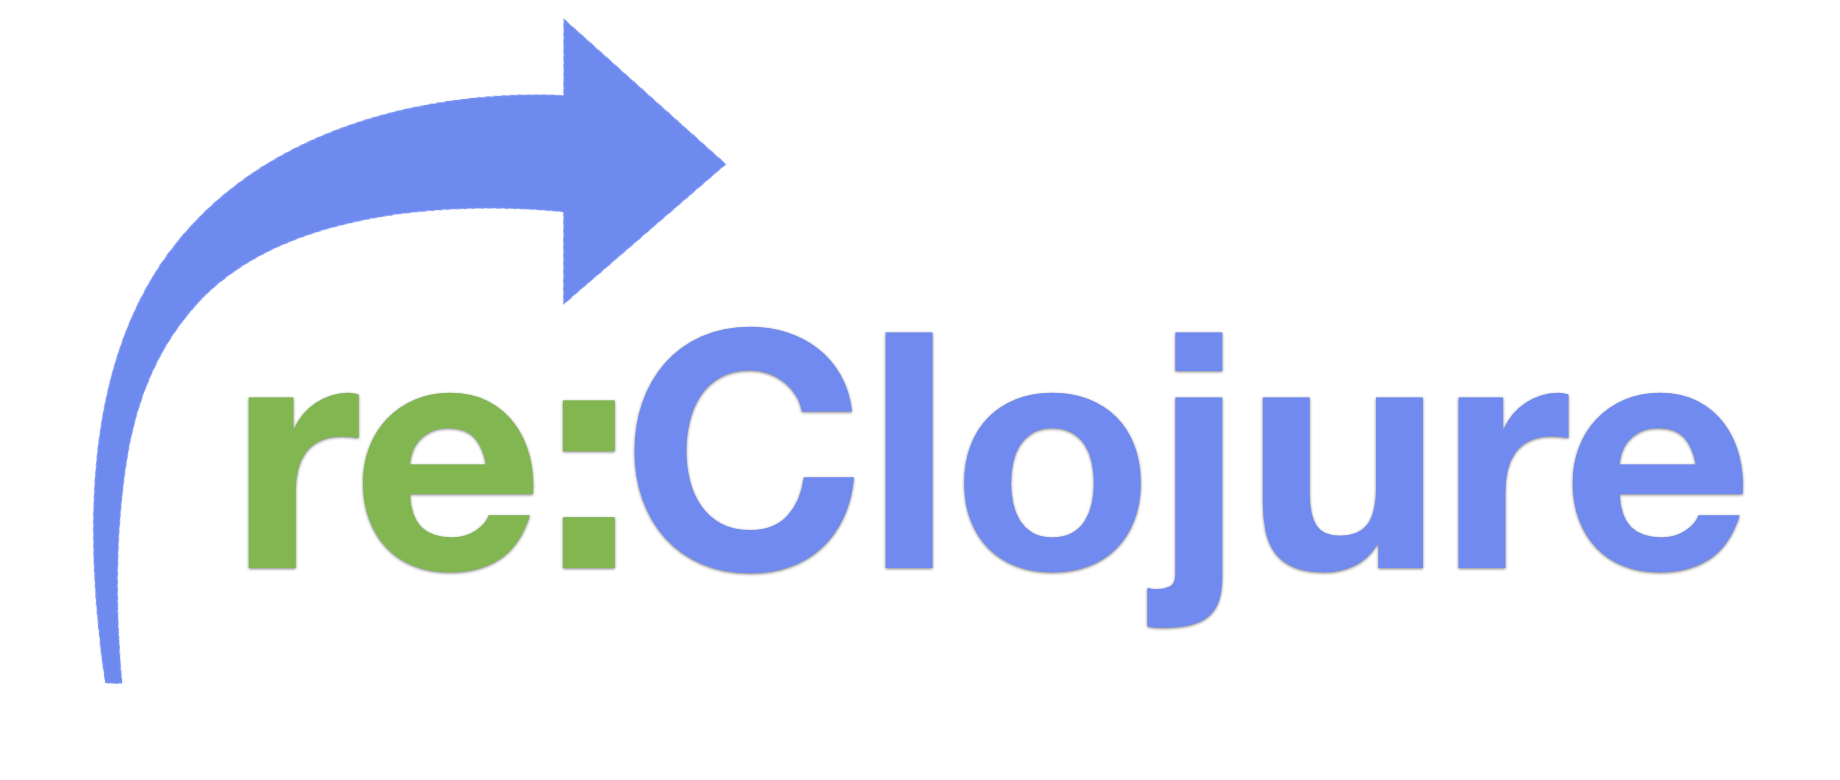
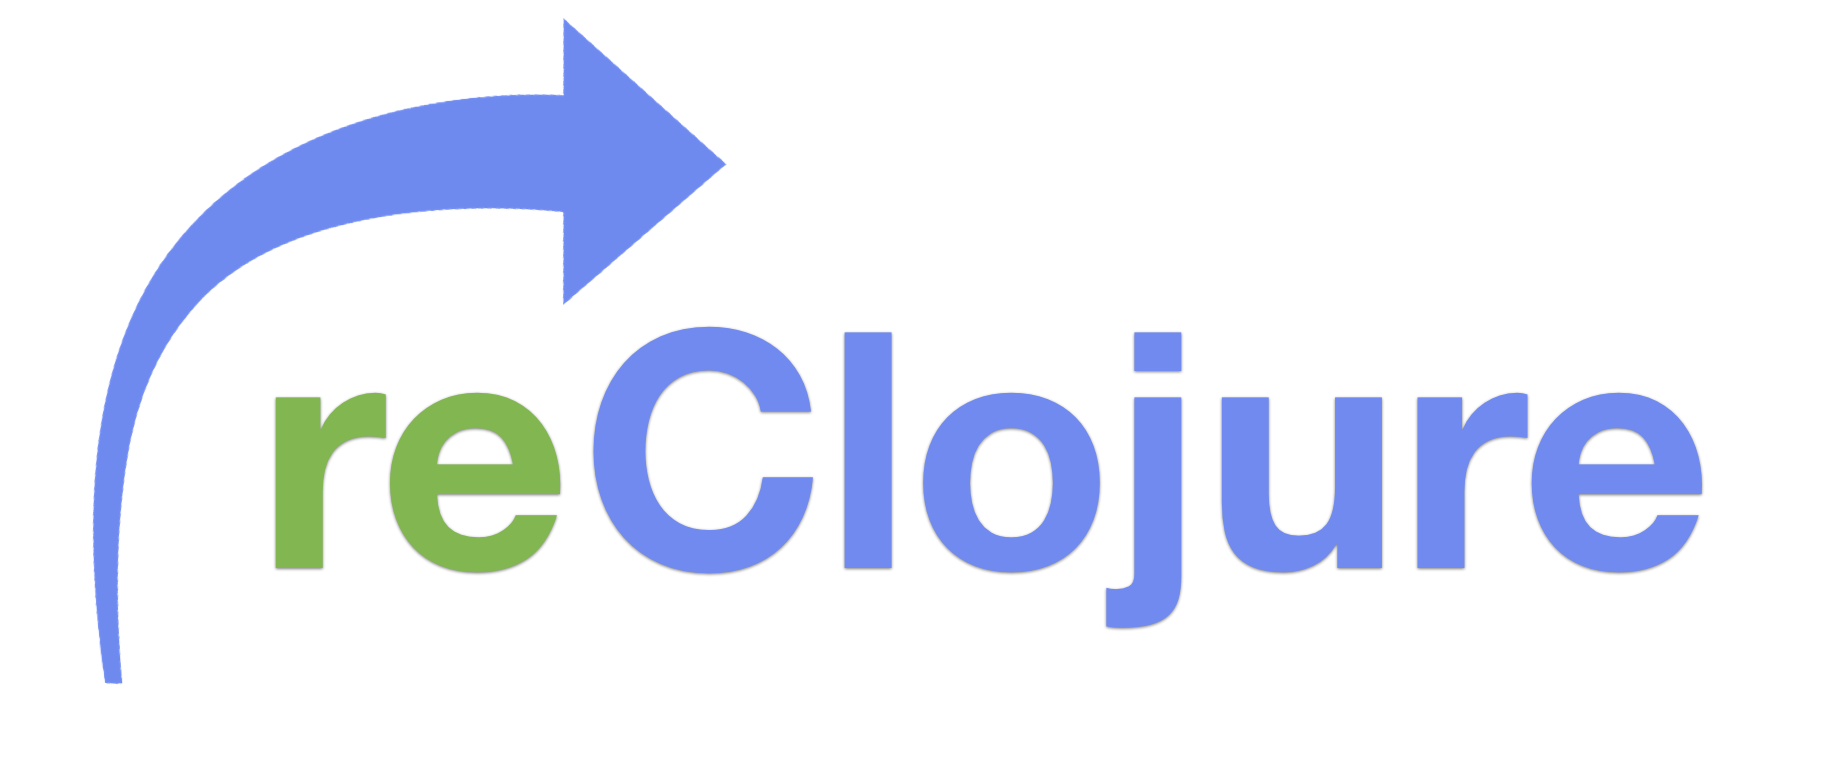
Remove re:Clojure, replace with reClojure

Changed region(s): [[0.1239, 0.4, 0.9603, 0.8308]]

diff --git a/old_site/index.html b/old_site/index.html
@@ -3,7 +3,7 @@
 
 <head>
   <meta charset="utf-8">
-  <title>re:Clojure 2020</title>
+  <title>reClojure 2020</title>
   <meta content="width=device-width, initial-scale=1.0" name="viewport">
   <meta content="" name="keywords">
   <meta content="" name="description">
@@ -38,7 +38,7 @@
 
       <div id="logo" class="pull-left">
         <a href="#intro" class="scrollto">
-          <img src="img/re-logo-black-trans.png" alt="re:Clojure Logo" title="">
+          <img src="img/re-logo-black-trans.png" alt="reClojure Logo" title="">
         </a>
       </div>
 
@@ -63,7 +63,7 @@
   <section id="intro">
     <div class="intro-container wow fadeIn">
       <h1 class="mb-4 pb-0">
-        <img src="img/reclojure-banner-black-trans.png" alt="re:Clojure Logo" title="">
+        <img src="img/reclojure-banner-black-trans.png" alt="reClojure Logo" title="">
         <br><span>2020</span> Conference
       </h1>
       <p class="mb-4 pb-0">4th-5th December, free, open and virtual</p>
@@ -80,8 +80,8 @@
       <div class="container">
         <div class="row">
           <div class="col-lg-6">
-            <h2>About re:Clojure</h2>
-            <p><em>re:Clojure</em> is a community-driven effort to bring together knowledgeable speakers to present new and exciting topics on all things Clojure and Clojurescript.
+            <h2>About reClojure</h2>
+            <p><em>reClojure</em> is a community-driven effort to bring together knowledgeable speakers to present new and exciting topics on all things Clojure and Clojurescript.
                 It is our intention to keep the conferences lean, inclusive and rewarding to all attendees and to promote other Clojure conferences in Europe and worldwide.
             </p>
             <p>Please review our <a href="https://en-us.confcodeofconduct.com/">code of conduct</a>, relax and enjoy the conference!
@@ -89,7 +89,7 @@
           </div>
           <div class="col-lg-3">
             <h3>Where</h3>
-            <p>Given the special pandemic circumstances, re:Clojure 2020 will be a virtual event. We invite you to grab a ticket and join us on Zoom for enhanced interactivity. The conference will be also streamed on Youtube. You can also attend our workshops ahead of the conference. Check the schedule below.</p>
+            <p>Given the special pandemic circumstances, reClojure 2020 will be a virtual event. We invite you to grab a ticket and join us on Zoom for enhanced interactivity. The conference will be also streamed on Youtube. You can also attend our workshops ahead of the conference. Check the schedule below.</p>
           </div>
           <div class="col-lg-3">
             <h3>When</h3>
@@ -108,7 +108,7 @@
 
         <div class="section-header">
           <h2>Event Schedule</h2>
-          <p>This year re:Clojure 2020 goes virtual. We prepared a brand new two days schedule with different starting times - opening up the conference across timezones for attendees around the world.</p>
+          <p>This year reClojure 2020 goes virtual. We prepared a brand new two days schedule with different starting times - opening up the conference across timezones for attendees around the world.</p>
           <p>Don't worry if you can't make a talk, you'll have the opportunity to catch up with any talks you miss after they've been uploaded.</p>
         </div>
 
@@ -308,7 +308,7 @@
                 <div class="row schedule-item">
                   <div class="col-md-3"><a href="https://time.is/1500_3_Dec_2020_in_UTC" target="_blank"><time>3:00pm - 6:00pm GMT Thursday 3rd December</time></a></div>
                   <div class="col-md-9">
-                    <h4>re:Crux workshop by JUXT</h4>
+                    <h4>reCrux workshop by JUXT</h4>
                     <a href="https://www.eventbrite.co.uk/e/crux-workshop-reclojure-tickets-129935746315" target="_blank">get your FREE tickets</a>
                     <p>(NOTE: the workshop ticket is separate from the main event ticket)</p>
                   </div>
@@ -520,7 +520,7 @@
             </br>
             </br>
           <h2>Call for Speakers</h2>
-          <p>re:Clojure is all about bringing the Clojure community together to share ideas and learn from each other. Unfortunately, we won't be able to meet physically this year, but you'll be able to give your talk from the comfort of your desk!</p>
+          <p>reClojure is all about bringing the Clojure community together to share ideas and learn from each other. Unfortunately, we won't be able to meet physically this year, but you'll be able to give your talk from the comfort of your desk!</p>
           <p>So if you have an idea, <b><a href="https://forms.gle/ZNzW4iwuWCHGZAT89">submit your talk here!</a></b></p>
             </br>
           <p><b>Key Dates</b></p>
@@ -542,7 +542,7 @@
     <!--   <div class="container"> -->
     <!--     <div class="section-header"> -->
     <!--       <h2>Sponsors</h2> -->
-    <!--       <p>Interested in sponsoring re:Clojure 2020? Please get in touch -->
+    <!--       <p>Interested in sponsoring reClojure 2020? Please get in touch -->
     <!--       <a href="mailto:info@reclojure.org">info@reclojure.org</a></p> -->
     <!--     </div> -->
     <!--   </div> -->
@@ -560,7 +560,7 @@
 
         <div class="section-header">
         <h2>Past Editions</h2>
-          <p>Check out the previous <a href="/old_site/2019">re:Clojure 2019 home page</a></p>
+          <p>Check out the previous <a href="/old_site/2019">reClojure 2019 home page</a></p>
         </div>
 
       </div>
@@ -573,7 +573,7 @@
   <footer id="footer">
     <div class="container">
       <div class="copyright">
-        &copy; Copyright <strong>re:Clojure</strong>. All Rights Reserved
+        &copy; Copyright <strong>reClojure</strong>. All Rights Reserved
       </div>
       <div class="credits">
         <!--

diff --git a/old_site/resources/public/css/compiled.css b/old_site/resources/public/css/compiled.css
@@ -222,7 +222,7 @@ img, video {
 .org_reclojure_views_home__nowrap{white-space:nowrap}
 .org_reclojure_views_home__small_caps{font-variant:all-small-caps}
 .org_reclojure_views_home__reclojure_symbol{height:6.25rem;width:6.25rem;max-width:unset;transform:rotate(-10deg);filter:drop-shadow(0 0 1px hsla(0,0%,0%,0.15))}
-.org_reclojure_views_home__reclojure_title{margin-left:-0.05em;display:grid;grid-template-areas:"text"}.org_reclojure_views_home__reclojure_title .title{grid-area:text;z-index:3}.org_reclojure_views_home__reclojure_title .title span:first-child{color:#5bdc00}.org_reclojure_views_home__reclojure_title .title span:last-child{color:#6864e6}.org_reclojure_views_home__reclojure_title::before{background:no-repeat linear-gradient(white,white) 15% 50%/45% 40%;content:"re:Clojure";color:white;filter:drop-shadow(0 0 1px hsla(0,0%,0%,0.15));grid-area:text;-webkit-text-stroke:.25em white;z-index:2}.org_reclojure_views_home__reclojure_title::after{content:"re:Clojure";grid-area:text;text-shadow:0 0 1px black,-5px 1px 9px black;z-index:1}@media(min-width:60em){.org_reclojure_views_home__reclojure_title::after{text-shadow:3px 2px 25px black,-5px 1px 25px}}
+.org_reclojure_views_home__reclojure_title{margin-left:-0.05em;display:grid;grid-template-areas:"text"}.org_reclojure_views_home__reclojure_title .title{grid-area:text;z-index:3}.org_reclojure_views_home__reclojure_title .title span:first-child{color:#5bdc00}.org_reclojure_views_home__reclojure_title .title span:last-child{color:#6864e6}.org_reclojure_views_home__reclojure_title::before{background:no-repeat linear-gradient(white,white) 15% 50%/45% 40%;content:"reClojure";color:white;filter:drop-shadow(0 0 1px hsla(0,0%,0%,0.15));grid-area:text;-webkit-text-stroke:.25em white;z-index:2}.org_reclojure_views_home__reclojure_title::after{content:"reClojure";grid-area:text;text-shadow:0 0 1px black,-5px 1px 9px black;z-index:1}@media(min-width:60em){.org_reclojure_views_home__reclojure_title::after{text-shadow:3px 2px 25px black,-5px 1px 25px}}
 .org_reclojure_views_home__wrapper h1{font-family:Inter,sans-serif;font-weight:700;font-size:15vmin}.org_reclojure_views_home__wrapper p{color:#0c2900}@media(min-width:60em){.org_reclojure_views_home__wrapper{background-image:url(/images/liquid-cheese.svg);background-size:cover;min-height:100vh}}
 .org_reclojure_views_home__navigation{width:100%;max-width:1100px;justify-content:space-between;font-family:Inter,sans-serif;margin:0 auto;align-items:center;padding:1.5rem;font-weight:700;display:flex}@media(min-width:40em){.org_reclojure_views_home__navigation{padding:2.5rem}}.org_reclojure_views_home__navigation ul{display:flex;flex-wrap:wrap;flex-direction:column;align-items:flex-end}.org_reclojure_views_home__navigation ul li{font-family:Inter,sans-serif;font-weight:700;font-size:1.3rem;margin-bottom:2rem}.org_reclojure_views_home__navigation ul li a{color:#22207b}.org_reclojure_views_home__navigation ul li:last-child{margin-bottom:0}@media(min-width:40em){.org_reclojure_views_home__navigation ul{flex-direction:row}.org_reclojure_views_home__navigation ul li{margin-right:2rem;margin-bottom:0}.org_reclojure_views_home__navigation ul li:last-child{margin-right:0}}@media(min-width:80em){.org_reclojure_views_home__navigation ul li:first-child{display:none}}
 .org_reclojure_views_home__header{margin:0 auto;padding:10vmin 2.5rem;width:100%;max-width:1100px}.org_reclojure_views_home__header .info{font-family:inter,sans-serif;font-size:1.5rem;margin-top:2rem;margin-bottom:4rem}.org_reclojure_views_home__header .info p:last-child{font-weight:700;font-size:3rem}.org_reclojure_views_home__header .description{font-family:Inter,sans-serif;font-weight:400;display:grid;grid-template-columns:1fr}.org_reclojure_views_home__header .description p{font-size:1.5rem;line-height:1.6}.org_reclojure_views_home__header .description p:first-child{margin-bottom:1rem}@media(min-width:40em){.org_reclojure_views_home__header .description{grid-template-columns:40% 1fr}.org_reclojure_views_home__header .description p{grid-column-start:2}}

diff --git a/old_site/2019/index.html b/old_site/2019/index.html
@@ -3,7 +3,7 @@
 
 <head>
   <meta charset="utf-8">
-  <title>re:Clojure 2019</title>
+  <title>reClojure 2019</title>
   <meta content="width=device-width, initial-scale=1.0" name="viewport">
   <meta content="" name="keywords">
   <meta content="" name="description">
@@ -37,7 +37,7 @@
     <div class="container">
 
       <div id="logo" class="pull-left">
-        <a href="#intro" class="scrollto"><img src="../img/re-logo-black-trans.png" alt="re:Clojure Logo" title=""></a>
+        <a href="#intro" class="scrollto"><img src="../img/re-logo-black-trans.png" alt="reClojure Logo" title=""></a>
       </div>
 
       <nav id="nav-menu-container">
@@ -57,9 +57,9 @@
   ============================-->
   <section id="intro">
     <div class="intro-container wow fadeIn">
-      <h1 class="mb-4 pb-0"><img src="../img/reclojure-banner-black-trans.png" alt="re:Clojure Logo" title=""><br><span>2019</span> Conference</h1>
+      <h1 class="mb-4 pb-0"><img src="../img/reclojure-banner-black-trans.png" alt="reClojure Logo" title=""><br><span>2019</span> Conference</h1>
       <p class="mb-4 pb-0">2nd December, London</p>
-      <a href="#about" class="about-btn scrollto">About re:Clojure</a>
+      <a href="#about" class="about-btn scrollto">About reClojure</a>
     </div>
   </section>
 
@@ -72,9 +72,9 @@
       <div class="container">
         <div class="row">
           <div class="col-lg-6">
-            <h2>About re:Clojure</h2>
-            <p>re:Clojure is a community-driven effort to bring together knowledgeable speakers to present new and exciting topics on all things Clojure and Clojurescript.
-                It is our intention to keep the conferences lean, inclusive and rewarding to all attendees and to promote other re:Clojure conferences throughout the UK.
+            <h2>About reClojure</h2>
+            <p>reClojure is a community-driven effort to bring together knowledgeable speakers to present new and exciting topics on all things Clojure and Clojurescript.
+                It is our intention to keep the conferences lean, inclusive and rewarding to all attendees and to promote other reClojure conferences throughout the UK.
             </p>
             <p>
                 <h3>Please note! All attendees or visitors under 18 must be accompanied by an adult at all times and are not permitted to consume alcohol at the Event.</h3>

diff --git a/old_site/2020-speakers/christian-betz.html b/old_site/2020-speakers/christian-betz.html
@@ -3,7 +3,7 @@
 
 <head>
   <meta charset="utf-8">
-  <title>re:Clojure 2020</title>
+  <title>reClojure 2020</title>
   <meta content="width=device-width, initial-scale=1.0" name="viewport">
   <meta content="" name="keywords">
   <meta content="" name="description">
@@ -33,7 +33,7 @@
   <main id="main" class="">
       <div id="speaker-details-banner" class="pull-left">
         <a href="../index.html" target="_parent">
-          <img src="../img/reclojure-banner-black-trans.png" alt="re:Clojure Logo" title="Back Home">
+          <img src="../img/reclojure-banner-black-trans.png" alt="reClojure Logo" title="Back Home">
         </a>
       </div>
 
@@ -66,7 +66,7 @@
 
 	      <h4>Bio</h4>
 	      <p>
-        Hi! I'm a Clojure hacker, data wrangler, digital problem solver. I create and maintain open source libraries  for smart and secure data usage under gorillalabs. At <a href="https://data42.de/index_en.html" target="_blank">data42 GmbH</a>, I'm putting this to work to make the world a better place using Clojure: We're helping our clients analyze the world around us through data, generating insights into conflicts, climate and environmental issues. We help plan development efforts in order to put insights into action.
+        Hi! I'm a Clojure hacker, data wrangler, digital problem solver. I create and maintain open source libraries  for smart and secure data usage under gorillalabs. At <a href="https://data42.de/index_en.html" target="_blank">data42 GmbH</a>, I'm putting this to work to make the world a better place using Clojure We're helping our clients analyze the world around us through data, generating insights into conflicts, climate and environmental issues. We help plan development efforts in order to put insights into action.
 	      </p>
             </div>
           </div>

diff --git a/old_site/2020-speakers/mey-beisaron.html b/old_site/2020-speakers/mey-beisaron.html
@@ -3,7 +3,7 @@
 
 <head>
   <meta charset="utf-8">
-  <title>re:Clojure 2020</title>
+  <title>reClojure 2020</title>
   <meta content="width=device-width, initial-scale=1.0" name="viewport">
   <meta content="" name="keywords">
   <meta content="" name="description">
@@ -33,7 +33,7 @@
   <main id="main" class="">
       <div id="speaker-details-banner" class="pull-left">
         <a href="../index.html" target="_parent">
-          <img src="../img/reclojure-banner-black-trans.png" alt="re:Clojure Logo" title="Back Home">
+          <img src="../img/reclojure-banner-black-trans.png" alt="reClojure Logo" title="Back Home">
         </a>
       </div>
 
@@ -42,7 +42,7 @@
       <div class="container">
         <div class="section-header">
           <h2>
-            Multiplayer Online Game in Clojure: Attack of the Clones (Episode II)
+            Multiplayer Online Game in Clojure Attack of the Clones (Episode II)
           </h2>
           <p>Mey Beisaron</p>
         </div>
@@ -60,10 +60,10 @@
             <div class="details">
               <h4>The Talk</h4>
               <p>
-                  Multiplayer Online Game in Clojure: Attack of the Clones (Episode II)
+                  Multiplayer Online Game in Clojure Attack of the Clones (Episode II)
               </p>
               <p>
-              This talk will be about writing a MOG in Clojure: why, what and most importantly - HOW??
+              This talk will be about writing a MOG in Clojure why, what and most importantly - HOW??
 Whether you're a real Clojurian at heart or just interested in hearing a talk about multiplayer online games development in Clojure from a sworn star wars fan  - this talk is for you!
               </p>
               <h4>Bio</h4>

diff --git a/old_site/2020-speakers/vladislav-protsenko.html b/old_site/2020-speakers/vladislav-protsenko.html
@@ -3,7 +3,7 @@
 
 <head>
   <meta charset="utf-8">
-  <title>re:Clojure 2020</title>
+  <title>reClojure 2020</title>
   <meta content="width=device-width, initial-scale=1.0" name="viewport">
   <meta content="" name="keywords">
   <meta content="" name="description">
@@ -33,7 +33,7 @@
   <main id="main" class="">
       <div id="speaker-details-banner" class="pull-left">
         <a href="../index.html" target="_parent">
-          <img src="../img/reclojure-banner-black-trans.png" alt="re:Clojure Logo" title="Back Home">
+          <img src="../img/reclojure-banner-black-trans.png" alt="reClojure Logo" title="Back Home">
         </a>
       </div>
 
@@ -60,7 +60,7 @@
             <div class="details">
               <h4>The Talk</h4>
 	      <p>
-	      Reveal is a Clojure REPL with UI that enables data exploration in a way never seen before: select printed text and evaluate code directly on a value that produced it, build charts only using data, explore object fields in debugger-like inspector, easily create views that matter to you or your domain.
+	      Reveal is a Clojure REPL with UI that enables data exploration in a way never seen before select printed text and evaluate code directly on a value that produced it, build charts only using data, explore object fields in debugger-like inspector, easily create views that matter to you or your domain.
 	      </p>
 	      <p>
 In this talk I'm going to explain what is Reveal, why I made it and how to use it.

diff --git a/old_site/2020-speakers/mourjo-sen.html b/old_site/2020-speakers/mourjo-sen.html
@@ -3,7 +3,7 @@
 
 <head>
   <meta charset="utf-8">
-  <title>re:Clojure 2020</title>
+  <title>reClojure 2020</title>
   <meta content="width=device-width, initial-scale=1.0" name="viewport">
   <meta content="" name="keywords">
   <meta content="" name="description">
@@ -33,7 +33,7 @@
   <main id="main" class="">
       <div id="speaker-details-banner" class="pull-left">
         <a href="../index.html" target="_parent">
-          <img src="../img/reclojure-banner-black-trans.png" alt="re:Clojure Logo" title="Back Home">
+          <img src="../img/reclojure-banner-black-trans.png" alt="reClojure Logo" title="Back Home">
         </a>
       </div>
 
@@ -79,7 +79,7 @@
 	        availability. I write about Clojure-related topics on
 	        my blog. I like to read and learn about software
 	        systems in general and distributed systems in
-	        particular. The two last books I read are: "Designing
+	        particular. The two last books I read are "Designing
 	        data-intensive applications" by Martin Kleppman and
 	        "Java Concurrency in Practice" by Brian
 	        Goetz. Currently I am reading "High Performance

diff --git a/old_site/2020-speakers/berger-praveen.html b/old_site/2020-speakers/berger-praveen.html
@@ -3,7 +3,7 @@
 
 <head>
   <meta charset="utf-8">
-  <title>re:Clojure 2020</title>
+  <title>reClojure 2020</title>
   <meta content="width=device-width, initial-scale=1.0" name="viewport">
   <meta content="" name="keywords">
   <meta content="" name="description">
@@ -33,7 +33,7 @@
   <main id="main" class="">
       <div id="speaker-details-banner" class="pull-left">
         <a href="../index.html" target="_parent">
-          <img src="../img/reclojure-banner-black-trans.png" alt="re:Clojure Logo" title="Back Home">
+          <img src="../img/reclojure-banner-black-trans.png" alt="reClojure Logo" title="Back Home">
         </a>
       </div>
 

diff --git a/old_site/2020-speakers/dan-friedman.html b/old_site/2020-speakers/dan-friedman.html
@@ -3,7 +3,7 @@
 
 <head>
   <meta charset="utf-8">
-  <title>re:Clojure 2020</title>
+  <title>reClojure 2020</title>
   <meta content="width=device-width, initial-scale=1.0" name="viewport">
   <meta content="" name="keywords">
   <meta content="" name="description">
@@ -33,7 +33,7 @@
   <main id="main" class="">
       <div id="speaker-details-banner" class="pull-left">
         <a href="../index.html" target="_parent">
-          <img src="../img/reclojure-banner-black-trans.png" alt="re:Clojure Logo" title="Back Home">
+          <img src="../img/reclojure-banner-black-trans.png" alt="reClojure Logo" title="Back Home">
         </a>
       </div>
 

diff --git a/old_site/2020-speakers/eric-normand.html b/old_site/2020-speakers/eric-normand.html
@@ -3,7 +3,7 @@
 
 <head>
   <meta charset="utf-8">
-  <title>re:Clojure 2020</title>
+  <title>reClojure 2020</title>
   <meta content="width=device-width, initial-scale=1.0" name="viewport">
   <meta content="" name="keywords">
   <meta content="" name="description">
@@ -33,7 +33,7 @@
   <main id="main" class="">
       <div id="speaker-details-banner" class="pull-left">
         <a href="../index.html" target="_parent">
-          <img src="../img/reclojure-banner-black-trans.png" alt="re:Clojure Logo" title="Back Home">
+          <img src="../img/reclojure-banner-black-trans.png" alt="reClojure Logo" title="Back Home">
         </a>
       </div>
 

diff --git a/old_site/2020-speakers/jacob-obryant.html b/old_site/2020-speakers/jacob-obryant.html
@@ -3,7 +3,7 @@
 
 <head>
   <meta charset="utf-8">
-  <title>re:Clojure 2020</title>
+  <title>reClojure 2020</title>
   <meta content="width=device-width, initial-scale=1.0" name="viewport">
   <meta content="" name="keywords">
   <meta content="" name="description">
@@ -33,7 +33,7 @@
   <main id="main" class="">
       <div id="speaker-details-banner" class="pull-left">
         <a href="../index.html" target="_parent">
-          <img src="../img/reclojure-banner-black-trans.png" alt="re:Clojure Logo" title="Back Home">
+          <img src="../img/reclojure-banner-black-trans.png" alt="reClojure Logo" title="Back Home">
         </a>
       </div>
 

diff --git a/old_site/2020-speakers/jon-pither.html b/old_site/2020-speakers/jon-pither.html
@@ -3,7 +3,7 @@
 
 <head>
   <meta charset="utf-8">
-  <title>re:Clojure 2020</title>
+  <title>reClojure 2020</title>
   <meta content="width=device-width, initial-scale=1.0" name="viewport">
   <meta content="" name="keywords">
   <meta content="" name="description">
@@ -33,7 +33,7 @@
   <main id="main" class="">
       <div id="speaker-details-banner" class="pull-left">
         <a href="../index.html" target="_parent">
-          <img src="../img/reclojure-banner-black-trans.png" alt="re:Clojure Logo" title="Back Home">
+          <img src="../img/reclojure-banner-black-trans.png" alt="reClojure Logo" title="Back Home">
         </a>
       </div>
 
